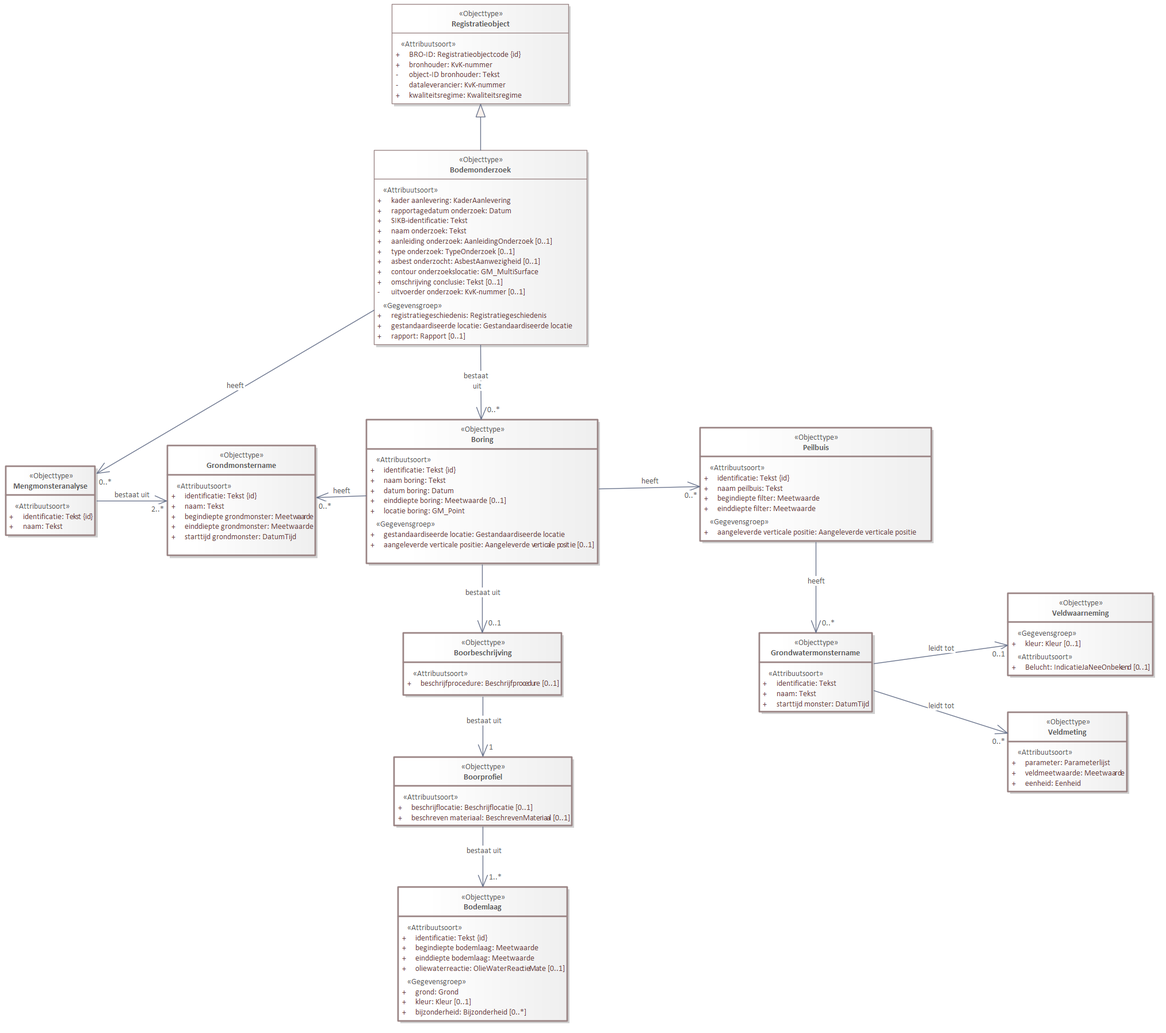
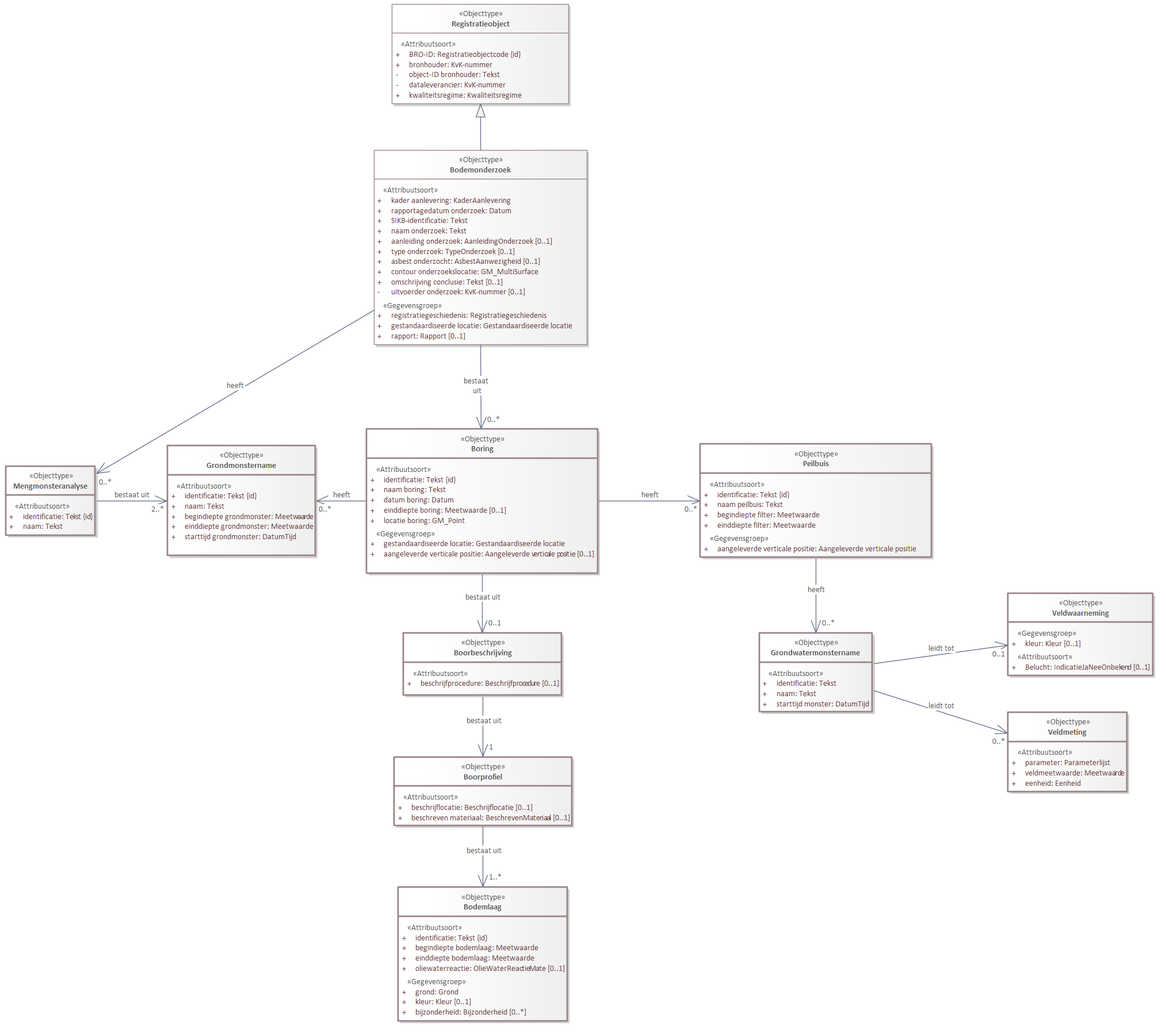
Conceptualmodel-MilieuhygienischbodemonderzoekSAD-0.2-1-20230126-20230412-154749

Changed region(s): [[0.5284, 0.4051, 0.8081, 0.5921], [0.2797, 0.3428, 0.5284, 0.5921]]

diff --git a/data/SAD-cat.msword.html b/data/SAD-cat.msword.html
@@ -15,7 +15,7 @@
    <body>
       <p>Conceptual model/Milieuhygienisch bodemonderzoek SAD/20230126</p>
       <p>Imvertor: 2.0.0</p>
-      <p>Model release: Conceptualmodel-MilieuhygienischbodemonderzoekSAD-0.2-1-20230126-20230412-153831</p>
+      <p>Model release: Conceptualmodel-MilieuhygienischbodemonderzoekSAD-0.2-1-20230126-20230412-154749</p>
       <hr>
       <section>
          <h1>Artikel 1 Definitie van registratieobject, entiteiten en attributen</h1>
@@ -65,7 +65,7 @@
          <section>
             <h2>Het domeinmodel</h2>
             <section id="">
-               <div class="imageinfo overview"><img src="Images/EAID_FABA90F8_223C_433d_BAE3_74F87B3DC220.png" usemap="#imagemap-EAID_FABA90F8_223C_433d_BAE3_74F87B3DC220" alt="Diagram &#xA;                        &#xA;                     "><map name="imagemap-EAID_FABA90F8_223C_433d_BAE3_74F87B3DC220"><area shape="rect" alt="Boorprofiel" coords="685,1317,995,1437" href="#graph_EAID_6CF3D55E_1BD5_4108_BEA5_8B69EB2D2097"><area shape="rect" alt="Boorbeschrijving" coords="701,1101,977,1210" href="#graph_EAID_080E44E6_527C_42db_BCF3_7400257377C2"><area shape="rect" alt="Veldmeting" coords="1752,1239,1960,1378" href="#graph_EAID_C348E314_A61B_43a0_AFED_083DA812EC5F"><area shape="rect" alt="Veldwaarneming" coords="1752,1032,2005,1176" href="#graph_EAID_A3A8A9F5_B12D_47e9_9D67_F12687999F0D"><area shape="rect" alt="Mengmonsteranalyse" coords="10,811,166,932" href="#graph_EAID_E7A3C99D_3348_4875_9BD5_4E0481E72C54"><area shape="rect" alt="Grondwatermonstername" coords="1320,1101,1517,1239" href="#graph_EAID_24B6DB20_4EA3_453f_B195_E642F22CC27C"><area shape="rect" alt="Grondmonstername" coords="291,775,549,967" href="#graph_EAID_8A8D6A0E_DAF9_415a_9AE7_09155A2C5869"><area shape="rect" alt="Peilbuis" coords="1217,744,1620,942" href="#graph_EAID_0075B243_E663_4ee7_9154_9D5DE12CCB21"><area shape="rect" alt="Bodemlaag" coords="692,1543,987,1777" href="#graph_EAID_88CF9E45_3E0E_40da_96C1_2CDD80B69F6F"><area shape="rect" alt="Boring" coords="637,730,1040,981" href="#graph_EAID_40FFF5B9_99C5_4c21_9D72_A3D1DD3C857F"><area shape="rect" alt="Registratieobject" coords="681,7,989,181" href="#graph_EAID_67DBE718_38E0_4ead_8649_72EA0B4A2355"><area shape="rect" alt="Bodemonderzoek" coords="650,261,1021,600" href="#graph_EAID_ABAADB49_C747_4775_A739_CC832CAD59F1"></map><p><b>Domeinmodel milieuhygienisch bodemonderzoek</b></p>
+               <div class="imageinfo overview"><img src="Images/EAID_FABA90F8_223C_433d_BAE3_74F87B3DC220.png" usemap="#imagemap-EAID_FABA90F8_223C_433d_BAE3_74F87B3DC220" alt="Diagram &#xA;                        &#xA;                     "><map name="imagemap-EAID_FABA90F8_223C_433d_BAE3_74F87B3DC220"><area shape="rect" alt="Boorprofiel" coords="685,1317,995,1437" href="#graph_EAID_6CF3D55E_1BD5_4108_BEA5_8B69EB2D2097"><area shape="rect" alt="Boorbeschrijving" coords="701,1101,977,1210" href="#graph_EAID_080E44E6_527C_42db_BCF3_7400257377C2"><area shape="rect" alt="Veldmeting" coords="1752,1239,1960,1378" href="#graph_EAID_C348E314_A61B_43a0_AFED_083DA812EC5F"><area shape="rect" alt="Veldwaarneming" coords="1752,1032,2005,1176" href="#graph_EAID_A3A8A9F5_B12D_47e9_9D67_F12687999F0D"><area shape="rect" alt="Mengmonsteranalyse" coords="10,811,166,932" href="#graph_EAID_E7A3C99D_3348_4875_9BD5_4E0481E72C54"><area shape="rect" alt="Grondwatermonstername" coords="1320,1101,1517,1239" href="#graph_EAID_24B6DB20_4EA3_453f_B195_E642F22CC27C"><area shape="rect" alt="Grondmonstername" coords="291,775,549,967" href="#graph_EAID_8A8D6A0E_DAF9_415a_9AE7_09155A2C5869"><area shape="rect" alt="Peilbuis" coords="1217,772,1620,970" href="#graph_EAID_0075B243_E663_4ee7_9154_9D5DE12CCB21"><area shape="rect" alt="Bodemlaag" coords="692,1543,987,1777" href="#graph_EAID_88CF9E45_3E0E_40da_96C1_2CDD80B69F6F"><area shape="rect" alt="Boring" coords="637,746,1040,998" href="#graph_EAID_40FFF5B9_99C5_4c21_9D72_A3D1DD3C857F"><area shape="rect" alt="Registratieobject" coords="681,7,989,181" href="#graph_EAID_67DBE718_38E0_4ead_8649_72EA0B4A2355"><area shape="rect" alt="Bodemonderzoek" coords="650,261,1021,600" href="#graph_EAID_ABAADB49_C747_4775_A739_CC832CAD59F1"></map><p><b>Domeinmodel milieuhygienisch bodemonderzoek</b></p>
                </div>
             </section>
          </section>
@@ -708,7 +708,7 @@
                            </tr>
                         </tbody>
                      </table>
-                     </section><a class="anchor" id="detail_d87493e3949"></a><section id="detail_d87493e3949">
+                     </section><a class="anchor" id="detail_d87483e3949"></a><section id="detail_d87483e3949">
                      <h4>  registratiegeschiedenis</h4>
                      <table style="width: 100%;">
                         <colgroup style="width: 30%;"></colgroup>
@@ -741,7 +741,7 @@
                            </tr>
                         </tbody>
                      </table>
-                  </section><a class="anchor" id="detail_d87493e4134"></a><section id="detail_d87493e4134">
+                  </section><a class="anchor" id="detail_d87483e4134"></a><section id="detail_d87483e4134">
                      <h4>  gestandaardiseerde locatie</h4>
                      <table style="width: 100%;">
                         <colgroup style="width: 30%;"></colgroup>
@@ -784,7 +784,7 @@
                            </tr>
                         </tbody>
                      </table>
-                  </section><a class="anchor" id="detail_d87493e4368"></a><section id="detail_d87493e4368">
+                  </section><a class="anchor" id="detail_d87483e4368"></a><section id="detail_d87483e4368">
                      <h4>  rapport</h4>
                      <table style="width: 100%;">
                         <colgroup style="width: 30%;"></colgroup>
@@ -1975,7 +1975,7 @@
                            </tr>
                         </tbody>
                      </table>
-                     </section><a class="anchor" id="detail_d87493e8999"></a><section id="detail_d87493e8999">
+                     </section><a class="anchor" id="detail_d87483e8999"></a><section id="detail_d87483e8999">
                      <h4>  gestandaardiseerde locatie</h4>
                      <table style="width: 100%;">
                         <colgroup style="width: 30%;"></colgroup>
@@ -2009,7 +2009,7 @@
                            </tr>
                         </tbody>
                      </table>
-                  </section><a class="anchor" id="detail_d87493e9184"></a><section id="detail_d87493e9184">
+                  </section><a class="anchor" id="detail_d87483e9184"></a><section id="detail_d87483e9184">
                      <h4>  aangeleverde verticale positie</h4>
                      <table style="width: 100%;">
                         <colgroup style="width: 30%;"></colgroup>
@@ -2338,6 +2338,8 @@
                      </section>
                </section><a class="anchor" id="graph_EAID_080E44E6_527C_42db_BCF3_7400257377C2"></a><a class="anchor" id="global_class_Model_Boorbeschrijving"></a><section id="global_class_Model_Boorbeschrijving">
                   <h3>   Boorbeschrijving</h3>
+                  <div class="imageinfo "><img src="Images/EAID_13B94F02_1663_445b_8AC1_EA904A52A559.png" usemap="#imagemap-EAID_13B94F02_1663_445b_8AC1_EA904A52A559" alt="Diagram "><map name="imagemap-EAID_13B94F02_1663_445b_8AC1_EA904A52A559"><area shape="rect" alt="Boorbeschrijving" coords="14,14,289,123" href="#graph_EAID_080E44E6_527C_42db_BCF3_7400257377C2"></map><p><b></b></p>
+                  </div>
                   <table style="width: 100%;">
                      <colgroup style="width: 30%;"></colgroup>
                      <colgroup style="width: 70%;"></colgroup>
@@ -2435,6 +2437,8 @@
                   </section>
                </section><a class="anchor" id="graph_EAID_6CF3D55E_1BD5_4108_BEA5_8B69EB2D2097"></a><a class="anchor" id="global_class_Model_Boorprofiel"></a><section id="global_class_Model_Boorprofiel">
                   <h3>   Boorprofiel</h3>
+                  <div class="imageinfo "><img src="Images/EAID_B8CC6F86_9671_4965_A12C_780A2AB67A92.png" usemap="#imagemap-EAID_B8CC6F86_9671_4965_A12C_780A2AB67A92" alt="Diagram "><map name="imagemap-EAID_B8CC6F86_9671_4965_A12C_780A2AB67A92"><area shape="rect" alt="Boorprofiel" coords="14,14,323,135" href="#graph_EAID_6CF3D55E_1BD5_4108_BEA5_8B69EB2D2097"></map><p><b></b></p>
+                  </div>
                   <table style="width: 100%;">
                      <colgroup style="width: 30%;"></colgroup>
                      <colgroup style="width: 70%;"></colgroup>
@@ -2817,7 +2821,7 @@
                            </tr>
                         </tbody>
                      </table>
-                     </section><a class="anchor" id="detail_d87493e11714"></a><section id="detail_d87493e11714">
+                     </section><a class="anchor" id="detail_d87483e11714"></a><section id="detail_d87483e11714">
                      <h4>  grond</h4>
                      <table style="width: 100%;">
                         <colgroup style="width: 30%;"></colgroup>
@@ -2850,7 +2854,7 @@
                            </tr>
                         </tbody>
                      </table>
-                  </section><a class="anchor" id="detail_d87493e11899"></a><section id="detail_d87493e11899">
+                  </section><a class="anchor" id="detail_d87483e11899"></a><section id="detail_d87483e11899">
                      <h4>  kleur</h4>
                      <table style="width: 100%;">
                         <colgroup style="width: 30%;"></colgroup>
@@ -2883,7 +2887,7 @@
                            </tr>
                         </tbody>
                      </table>
-                  </section><a class="anchor" id="detail_d87493e12084"></a><section id="detail_d87493e12084">
+                  </section><a class="anchor" id="detail_d87483e12084"></a><section id="detail_d87483e12084">
                      <h4>  bijzonderheid</h4>
                      <table style="width: 100%;">
                         <colgroup style="width: 30%;"></colgroup>
@@ -3206,6 +3210,8 @@
                      </section>
                </section><a class="anchor" id="graph_EAID_274BAB31_A98A_4713_A3F5_84E6265CB265"></a><a class="anchor" id="global_class_Model_Kleur"></a><section id="global_class_Model_Kleur">
                   <h3>   Kleur</h3>
+                  <div class="imageinfo "><img src="Images/EAID_69153C4A_3FDC_4716_8FD7_78C30CE0E697.png" usemap="#imagemap-EAID_69153C4A_3FDC_4716_8FD7_78C30CE0E697" alt="Diagram "><map name="imagemap-EAID_69153C4A_3FDC_4716_8FD7_78C30CE0E697"><area shape="rect" alt="Kleur" coords="14,14,221,153" href="#graph_EAID_274BAB31_A98A_4713_A3F5_84E6265CB265"></map><p><b></b></p>
+                  </div>
                   <table style="width: 100%;">
                      <colgroup style="width: 30%;"></colgroup>
                      <colgroup style="width: 70%;"></colgroup>
@@ -3456,6 +3462,8 @@
                      </section>
                </section><a class="anchor" id="graph_EAID_8A8D6A0E_DAF9_415a_9AE7_09155A2C5869"></a><a class="anchor" id="global_class_Model_Grondmonstername"></a><section id="global_class_Model_Grondmonstername">
                   <h3>   Grondmonstername</h3>
+                  <div class="imageinfo "><img src="Images/EAID_E366477D_3827_4040_A19D_7587D3C39AA5.png" usemap="#imagemap-EAID_E366477D_3827_4040_A19D_7587D3C39AA5" alt="Diagram "><map name="imagemap-EAID_E366477D_3827_4040_A19D_7587D3C39AA5"><area shape="rect" alt="Grondmonstername" coords="14,14,272,188" href="#graph_EAID_8A8D6A0E_DAF9_415a_9AE7_09155A2C5869"></map><p><b></b></p>
+                  </div>
                   <table style="width: 100%;">
                      <colgroup style="width: 30%;"></colgroup>
                      <colgroup style="width: 70%;"></colgroup>
@@ -3703,6 +3711,8 @@
                      </section>
                </section><a class="anchor" id="graph_EAID_0075B243_E663_4ee7_9154_9D5DE12CCB21"></a><a class="anchor" id="global_class_Model_Peilbuis"></a><section id="global_class_Model_Peilbuis">
                   <h3>   Peilbuis</h3>
+                  <div class="imageinfo "><img src="Images/EAID_90D0CFE9_39E0_41d5_A741_9CB1B9C4157A.png" usemap="#imagemap-EAID_90D0CFE9_39E0_41d5_A741_9CB1B9C4157A" alt="Diagram "><map name="imagemap-EAID_90D0CFE9_39E0_41d5_A741_9CB1B9C4157A"><area shape="rect" alt="Aangeleverde verticale positie" coords="452,14,884,153" href="#graph_EAID_1E52594C_6770_4a6a_A72F_F625CA2432F2"><area shape="rect" alt="Peilbuis" coords="14,14,416,247" href="#graph_EAID_0075B243_E663_4ee7_9154_9D5DE12CCB21"></map><p><b></b></p>
+                  </div>
                   <table style="width: 100%;">
                      <colgroup style="width: 30%;"></colgroup>
                      <colgroup style="width: 70%;"></colgroup>
@@ -3894,7 +3904,7 @@
                            </tr>
                         </tbody>
                      </table>
-                     </section><a class="anchor" id="detail_d87493e15950"></a><section id="detail_d87493e15950">
+                     </section><a class="anchor" id="detail_d87483e15950"></a><section id="detail_d87483e15950">
                      <h4>  aangeleverde verticale positie</h4>
                      <table style="width: 100%;">
                         <colgroup style="width: 30%;"></colgroup>
@@ -3964,6 +3974,8 @@
                   </section>
                </section><a class="anchor" id="graph_EAID_24B6DB20_4EA3_453f_B195_E642F22CC27C"></a><a class="anchor" id="global_class_Model_Grondwatermonstername"></a><section id="global_class_Model_Grondwatermonstername">
                   <h3>   Grondwatermonstername</h3>
+                  <div class="imageinfo "><img src="Images/EAID_789452DC_4BCE_4b65_8B62_328A8173128A.png" usemap="#imagemap-EAID_789452DC_4BCE_4b65_8B62_328A8173128A" alt="Diagram "><map name="imagemap-EAID_789452DC_4BCE_4b65_8B62_328A8173128A"><area shape="rect" alt="Grondwatermonstername" coords="14,14,210,194" href="#graph_EAID_24B6DB20_4EA3_453f_B195_E642F22CC27C"></map><p><b></b></p>
+                  </div>
                   <table style="width: 100%;">
                      <colgroup style="width: 30%;"></colgroup>
                      <colgroup style="width: 70%;"></colgroup>
@@ -4188,6 +4200,8 @@
                   </section>
                </section><a class="anchor" id="graph_EAID_A3A8A9F5_B12D_47e9_9D67_F12687999F0D"></a><a class="anchor" id="global_class_Model_Veldwaarneming"></a><section id="global_class_Model_Veldwaarneming">
                   <h3>   Veldwaarneming</h3>
+                  <div class="imageinfo "><img src="Images/EAID_7B0C06D7_EF25_42e7_83B1_4155D402C38F.png" usemap="#imagemap-EAID_7B0C06D7_EF25_42e7_83B1_4155D402C38F" alt="Diagram "><map name="imagemap-EAID_7B0C06D7_EF25_42e7_83B1_4155D402C38F"><area shape="rect" alt="Veldwaarneming" coords="14,14,266,158" href="#graph_EAID_A3A8A9F5_B12D_47e9_9D67_F12687999F0D"></map><p><b></b></p>
+                  </div>
                   <table style="width: 100%;">
                      <colgroup style="width: 30%;"></colgroup>
                      <colgroup style="width: 70%;"></colgroup>
@@ -4243,7 +4257,7 @@
                            </tr>
                         </tbody>
                      </table>
-                     </section><a class="anchor" id="detail_d87493e17158"></a><section id="detail_d87493e17158">
+                     </section><a class="anchor" id="detail_d87483e17158"></a><section id="detail_d87483e17158">
                      <h4>  kleur</h4>
                      <table style="width: 100%;">
                         <colgroup style="width: 30%;"></colgroup>
@@ -4279,6 +4293,8 @@
                   </section>
                </section><a class="anchor" id="graph_EAID_C348E314_A61B_43a0_AFED_083DA812EC5F"></a><a class="anchor" id="global_class_Model_Veldmeting"></a><section id="global_class_Model_Veldmeting">
                   <h3>   Veldmeting</h3>
+                  <div class="imageinfo "><img src="Images/EAID_347952F1_7D4B_4ed9_9C0F_E657522E5F18.png" usemap="#imagemap-EAID_347952F1_7D4B_4ed9_9C0F_E657522E5F18" alt="Diagram "><map name="imagemap-EAID_347952F1_7D4B_4ed9_9C0F_E657522E5F18"><area shape="rect" alt="Veldmeting" coords="14,14,221,153" href="#graph_EAID_C348E314_A61B_43a0_AFED_083DA812EC5F"></map><p><b></b></p>
+                  </div>
                   <table style="width: 100%;">
                      <colgroup style="width: 30%;"></colgroup>
                      <colgroup style="width: 70%;"></colgroup>

diff --git a/data/SAD-cat.respec.html b/data/SAD-cat.respec.html
@@ -43,7 +43,7 @@
       </section>
    <section id="">
       <h2>Het domeinmodel   </h2>
-      <div class="imageinfo overview"><img src="data/Images/EAID_FABA90F8_223C_433d_BAE3_74F87B3DC220.png" usemap="#imagemap-EAID_FABA90F8_223C_433d_BAE3_74F87B3DC220" alt="Diagram &#xA;                        &#xA;                     "><map name="imagemap-EAID_FABA90F8_223C_433d_BAE3_74F87B3DC220"><area shape="rect" alt="Boorprofiel" coords="685,1317,995,1437" href="#graph_EAID_6CF3D55E_1BD5_4108_BEA5_8B69EB2D2097"><area shape="rect" alt="Boorbeschrijving" coords="701,1101,977,1210" href="#graph_EAID_080E44E6_527C_42db_BCF3_7400257377C2"><area shape="rect" alt="Veldmeting" coords="1752,1239,1960,1378" href="#graph_EAID_C348E314_A61B_43a0_AFED_083DA812EC5F"><area shape="rect" alt="Veldwaarneming" coords="1752,1032,2005,1176" href="#graph_EAID_A3A8A9F5_B12D_47e9_9D67_F12687999F0D"><area shape="rect" alt="Mengmonsteranalyse" coords="10,811,166,932" href="#graph_EAID_E7A3C99D_3348_4875_9BD5_4E0481E72C54"><area shape="rect" alt="Grondwatermonstername" coords="1320,1101,1517,1239" href="#graph_EAID_24B6DB20_4EA3_453f_B195_E642F22CC27C"><area shape="rect" alt="Grondmonstername" coords="291,775,549,967" href="#graph_EAID_8A8D6A0E_DAF9_415a_9AE7_09155A2C5869"><area shape="rect" alt="Peilbuis" coords="1217,744,1620,942" href="#graph_EAID_0075B243_E663_4ee7_9154_9D5DE12CCB21"><area shape="rect" alt="Bodemlaag" coords="692,1543,987,1777" href="#graph_EAID_88CF9E45_3E0E_40da_96C1_2CDD80B69F6F"><area shape="rect" alt="Boring" coords="637,730,1040,981" href="#graph_EAID_40FFF5B9_99C5_4c21_9D72_A3D1DD3C857F"><area shape="rect" alt="Registratieobject" coords="681,7,989,181" href="#graph_EAID_67DBE718_38E0_4ead_8649_72EA0B4A2355"><area shape="rect" alt="Bodemonderzoek" coords="650,261,1021,600" href="#graph_EAID_ABAADB49_C747_4775_A739_CC832CAD59F1"></map><p><b>Domeinmodel milieuhygienisch bodemonderzoek</b></p>
+      <div class="imageinfo overview"><img src="data/Images/EAID_FABA90F8_223C_433d_BAE3_74F87B3DC220.png" usemap="#imagemap-EAID_FABA90F8_223C_433d_BAE3_74F87B3DC220" alt="Diagram &#xA;                        &#xA;                     "><map name="imagemap-EAID_FABA90F8_223C_433d_BAE3_74F87B3DC220"><area shape="rect" alt="Boorprofiel" coords="685,1317,995,1437" href="#graph_EAID_6CF3D55E_1BD5_4108_BEA5_8B69EB2D2097"><area shape="rect" alt="Boorbeschrijving" coords="701,1101,977,1210" href="#graph_EAID_080E44E6_527C_42db_BCF3_7400257377C2"><area shape="rect" alt="Veldmeting" coords="1752,1239,1960,1378" href="#graph_EAID_C348E314_A61B_43a0_AFED_083DA812EC5F"><area shape="rect" alt="Veldwaarneming" coords="1752,1032,2005,1176" href="#graph_EAID_A3A8A9F5_B12D_47e9_9D67_F12687999F0D"><area shape="rect" alt="Mengmonsteranalyse" coords="10,811,166,932" href="#graph_EAID_E7A3C99D_3348_4875_9BD5_4E0481E72C54"><area shape="rect" alt="Grondwatermonstername" coords="1320,1101,1517,1239" href="#graph_EAID_24B6DB20_4EA3_453f_B195_E642F22CC27C"><area shape="rect" alt="Grondmonstername" coords="291,775,549,967" href="#graph_EAID_8A8D6A0E_DAF9_415a_9AE7_09155A2C5869"><area shape="rect" alt="Peilbuis" coords="1217,772,1620,970" href="#graph_EAID_0075B243_E663_4ee7_9154_9D5DE12CCB21"><area shape="rect" alt="Bodemlaag" coords="692,1543,987,1777" href="#graph_EAID_88CF9E45_3E0E_40da_96C1_2CDD80B69F6F"><area shape="rect" alt="Boring" coords="637,746,1040,998" href="#graph_EAID_40FFF5B9_99C5_4c21_9D72_A3D1DD3C857F"><area shape="rect" alt="Registratieobject" coords="681,7,989,181" href="#graph_EAID_67DBE718_38E0_4ead_8649_72EA0B4A2355"><area shape="rect" alt="Bodemonderzoek" coords="650,261,1021,600" href="#graph_EAID_ABAADB49_C747_4775_A739_CC832CAD59F1"></map><p><b>Domeinmodel milieuhygienisch bodemonderzoek</b></p>
       </div>
    </section>
    <section id="">
@@ -684,7 +684,7 @@
                   </tr>
                </tbody>
             </table>
-            </section><a class="anchor" id="detail_d87493e3949"></a><section id="detail_d87493e3949">
+            </section><a class="anchor" id="detail_d87483e3949"></a><section id="detail_d87483e3949">
             <h4>  registratiegeschiedenis</h4>
             <table style="width: 100%;">
                <colgroup style="width: 30%;"></colgroup>
@@ -717,7 +717,7 @@
                   </tr>
                </tbody>
             </table>
-         </section><a class="anchor" id="detail_d87493e4134"></a><section id="detail_d87493e4134">
+         </section><a class="anchor" id="detail_d87483e4134"></a><section id="detail_d87483e4134">
             <h4>  gestandaardiseerde locatie</h4>
             <table style="width: 100%;">
                <colgroup style="width: 30%;"></colgroup>
@@ -760,7 +760,7 @@
                   </tr>
                </tbody>
             </table>
-         </section><a class="anchor" id="detail_d87493e4368"></a><section id="detail_d87493e4368">
+         </section><a class="anchor" id="detail_d87483e4368"></a><section id="detail_d87483e4368">
             <h4>  rapport</h4>
             <table style="width: 100%;">
                <colgroup style="width: 30%;"></colgroup>
@@ -1951,7 +1951,7 @@
                   </tr>
                </tbody>
             </table>
-            </section><a class="anchor" id="detail_d87493e8999"></a><section id="detail_d87493e8999">
+            </section><a class="anchor" id="detail_d87483e8999"></a><section id="detail_d87483e8999">
             <h4>  gestandaardiseerde locatie</h4>
             <table style="width: 100%;">
                <colgroup style="width: 30%;"></colgroup>
@@ -1985,7 +1985,7 @@
                   </tr>
                </tbody>
             </table>
-         </section><a class="anchor" id="detail_d87493e9184"></a><section id="detail_d87493e9184">
+         </section><a class="anchor" id="detail_d87483e9184"></a><section id="detail_d87483e9184">
             <h4>  aangeleverde verticale positie</h4>
             <table style="width: 100%;">
                <colgroup style="width: 30%;"></colgroup>
@@ -2314,6 +2314,8 @@
             </section>
       </section><a class="anchor" id="graph_EAID_080E44E6_527C_42db_BCF3_7400257377C2"></a><a class="anchor" id="global_class_Model_Boorbeschrijving"></a><section id="global_class_Model_Boorbeschrijving">
          <h3>   Boorbeschrijving</h3>
+         <div class="imageinfo "><img src="data/Images/EAID_13B94F02_1663_445b_8AC1_EA904A52A559.png" usemap="#imagemap-EAID_13B94F02_1663_445b_8AC1_EA904A52A559" alt="Diagram "><map name="imagemap-EAID_13B94F02_1663_445b_8AC1_EA904A52A559"><area shape="rect" alt="Boorbeschrijving" coords="14,14,289,123" href="#graph_EAID_080E44E6_527C_42db_BCF3_7400257377C2"></map><p><b></b></p>
+         </div>
          <table style="width: 100%;">
             <colgroup style="width: 30%;"></colgroup>
             <colgroup style="width: 70%;"></colgroup>
@@ -2411,6 +2413,8 @@
          </section>
       </section><a class="anchor" id="graph_EAID_6CF3D55E_1BD5_4108_BEA5_8B69EB2D2097"></a><a class="anchor" id="global_class_Model_Boorprofiel"></a><section id="global_class_Model_Boorprofiel">
          <h3>   Boorprofiel</h3>
+         <div class="imageinfo "><img src="data/Images/EAID_B8CC6F86_9671_4965_A12C_780A2AB67A92.png" usemap="#imagemap-EAID_B8CC6F86_9671_4965_A12C_780A2AB67A92" alt="Diagram "><map name="imagemap-EAID_B8CC6F86_9671_4965_A12C_780A2AB67A92"><area shape="rect" alt="Boorprofiel" coords="14,14,323,135" href="#graph_EAID_6CF3D55E_1BD5_4108_BEA5_8B69EB2D2097"></map><p><b></b></p>
+         </div>
          <table style="width: 100%;">
             <colgroup style="width: 30%;"></colgroup>
             <colgroup style="width: 70%;"></colgroup>
@@ -2793,7 +2797,7 @@
                   </tr>
                </tbody>
             </table>
-            </section><a class="anchor" id="detail_d87493e11714"></a><section id="detail_d87493e11714">
+            </section><a class="anchor" id="detail_d87483e11714"></a><section id="detail_d87483e11714">
             <h4>  grond</h4>
             <table style="width: 100%;">
                <colgroup style="width: 30%;"></colgroup>
@@ -2826,7 +2830,7 @@
                   </tr>
                </tbody>
             </table>
-         </section><a class="anchor" id="detail_d87493e11899"></a><section id="detail_d87493e11899">
+         </section><a class="anchor" id="detail_d87483e11899"></a><section id="detail_d87483e11899">
             <h4>  kleur</h4>
             <table style="width: 100%;">
                <colgroup style="width: 30%;"></colgroup>
@@ -2859,7 +2863,7 @@
                   </tr>
                </tbody>
             </table>
-         </section><a class="anchor" id="detail_d87493e12084"></a><section id="detail_d87493e12084">
+         </section><a class="anchor" id="detail_d87483e12084"></a><section id="detail_d87483e12084">
             <h4>  bijzonderheid</h4>
             <table style="width: 100%;">
                <colgroup style="width: 30%;"></colgroup>
@@ -3182,6 +3186,8 @@
             </section>
       </section><a class="anchor" id="graph_EAID_274BAB31_A98A_4713_A3F5_84E6265CB265"></a><a class="anchor" id="global_class_Model_Kleur"></a><section id="global_class_Model_Kleur">
          <h3>   Kleur</h3>
+         <div class="imageinfo "><img src="data/Images/EAID_69153C4A_3FDC_4716_8FD7_78C30CE0E697.png" usemap="#imagemap-EAID_69153C4A_3FDC_4716_8FD7_78C30CE0E697" alt="Diagram "><map name="imagemap-EAID_69153C4A_3FDC_4716_8FD7_78C30CE0E697"><area shape="rect" alt="Kleur" coords="14,14,221,153" href="#graph_EAID_274BAB31_A98A_4713_A3F5_84E6265CB265"></map><p><b></b></p>
+         </div>
          <table style="width: 100%;">
             <colgroup style="width: 30%;"></colgroup>
             <colgroup style="width: 70%;"></colgroup>
@@ -3432,6 +3438,8 @@
             </section>
       </section><a class="anchor" id="graph_EAID_8A8D6A0E_DAF9_415a_9AE7_09155A2C5869"></a><a class="anchor" id="global_class_Model_Grondmonstername"></a><section id="global_class_Model_Grondmonstername">
          <h3>   Grondmonstername</h3>
+         <div class="imageinfo "><img src="data/Images/EAID_E366477D_3827_4040_A19D_7587D3C39AA5.png" usemap="#imagemap-EAID_E366477D_3827_4040_A19D_7587D3C39AA5" alt="Diagram "><map name="imagemap-EAID_E366477D_3827_4040_A19D_7587D3C39AA5"><area shape="rect" alt="Grondmonstername" coords="14,14,272,188" href="#graph_EAID_8A8D6A0E_DAF9_415a_9AE7_09155A2C5869"></map><p><b></b></p>
+         </div>
          <table style="width: 100%;">
             <colgroup style="width: 30%;"></colgroup>
             <colgroup style="width: 70%;"></colgroup>
@@ -3679,6 +3687,8 @@
             </section>
       </section><a class="anchor" id="graph_EAID_0075B243_E663_4ee7_9154_9D5DE12CCB21"></a><a class="anchor" id="global_class_Model_Peilbuis"></a><section id="global_class_Model_Peilbuis">
          <h3>   Peilbuis</h3>
+         <div class="imageinfo "><img src="data/Images/EAID_90D0CFE9_39E0_41d5_A741_9CB1B9C4157A.png" usemap="#imagemap-EAID_90D0CFE9_39E0_41d5_A741_9CB1B9C4157A" alt="Diagram "><map name="imagemap-EAID_90D0CFE9_39E0_41d5_A741_9CB1B9C4157A"><area shape="rect" alt="Aangeleverde verticale positie" coords="452,14,884,153" href="#graph_EAID_1E52594C_6770_4a6a_A72F_F625CA2432F2"><area shape="rect" alt="Peilbuis" coords="14,14,416,247" href="#graph_EAID_0075B243_E663_4ee7_9154_9D5DE12CCB21"></map><p><b></b></p>
+         </div>
          <table style="width: 100%;">
             <colgroup style="width: 30%;"></colgroup>
             <colgroup style="width: 70%;"></colgroup>
@@ -3870,7 +3880,7 @@
                   </tr>
                </tbody>
             </table>
-            </section><a class="anchor" id="detail_d87493e15950"></a><section id="detail_d87493e15950">
+            </section><a class="anchor" id="detail_d87483e15950"></a><section id="detail_d87483e15950">
             <h4>  aangeleverde verticale positie</h4>
             <table style="width: 100%;">
                <colgroup style="width: 30%;"></colgroup>
@@ -3940,6 +3950,8 @@
          </section>
       </section><a class="anchor" id="graph_EAID_24B6DB20_4EA3_453f_B195_E642F22CC27C"></a><a class="anchor" id="global_class_Model_Grondwatermonstername"></a><section id="global_class_Model_Grondwatermonstername">
          <h3>   Grondwatermonstername</h3>
+         <div class="imageinfo "><img src="data/Images/EAID_789452DC_4BCE_4b65_8B62_328A8173128A.png" usemap="#imagemap-EAID_789452DC_4BCE_4b65_8B62_328A8173128A" alt="Diagram "><map name="imagemap-EAID_789452DC_4BCE_4b65_8B62_328A8173128A"><area shape="rect" alt="Grondwatermonstername" coords="14,14,210,194" href="#graph_EAID_24B6DB20_4EA3_453f_B195_E642F22CC27C"></map><p><b></b></p>
+         </div>
          <table style="width: 100%;">
             <colgroup style="width: 30%;"></colgroup>
             <colgroup style="width: 70%;"></colgroup>
@@ -4164,6 +4176,8 @@
          </section>
       </section><a class="anchor" id="graph_EAID_A3A8A9F5_B12D_47e9_9D67_F12687999F0D"></a><a class="anchor" id="global_class_Model_Veldwaarneming"></a><section id="global_class_Model_Veldwaarneming">
          <h3>   Veldwaarneming</h3>
+         <div class="imageinfo "><img src="data/Images/EAID_7B0C06D7_EF25_42e7_83B1_4155D402C38F.png" usemap="#imagemap-EAID_7B0C06D7_EF25_42e7_83B1_4155D402C38F" alt="Diagram "><map name="imagemap-EAID_7B0C06D7_EF25_42e7_83B1_4155D402C38F"><area shape="rect" alt="Veldwaarneming" coords="14,14,266,158" href="#graph_EAID_A3A8A9F5_B12D_47e9_9D67_F12687999F0D"></map><p><b></b></p>
+         </div>
          <table style="width: 100%;">
             <colgroup style="width: 30%;"></colgroup>
             <colgroup style="width: 70%;"></colgroup>
@@ -4219,7 +4233,7 @@
                   </tr>
                </tbody>
             </table>
-            </section><a class="anchor" id="detail_d87493e17158"></a><section id="detail_d87493e17158">
+            </section><a class="anchor" id="detail_d87483e17158"></a><section id="detail_d87483e17158">
             <h4>  kleur</h4>
             <table style="width: 100%;">
                <colgroup style="width: 30%;"></colgroup>
@@ -4255,6 +4269,8 @@
          </section>
       </section><a class="anchor" id="graph_EAID_C348E314_A61B_43a0_AFED_083DA812EC5F"></a><a class="anchor" id="global_class_Model_Veldmeting"></a><section id="global_class_Model_Veldmeting">
          <h3>   Veldmeting</h3>
+         <div class="imageinfo "><img src="data/Images/EAID_347952F1_7D4B_4ed9_9C0F_E657522E5F18.png" usemap="#imagemap-EAID_347952F1_7D4B_4ed9_9C0F_E657522E5F18" alt="Diagram "><map name="imagemap-EAID_347952F1_7D4B_4ed9_9C0F_E657522E5F18"><area shape="rect" alt="Veldmeting" coords="14,14,221,153" href="#graph_EAID_C348E314_A61B_43a0_AFED_083DA812EC5F"></map><p><b></b></p>
+         </div>
          <table style="width: 100%;">
             <colgroup style="width: 30%;"></colgroup>
             <colgroup style="width: 70%;"></colgroup>
